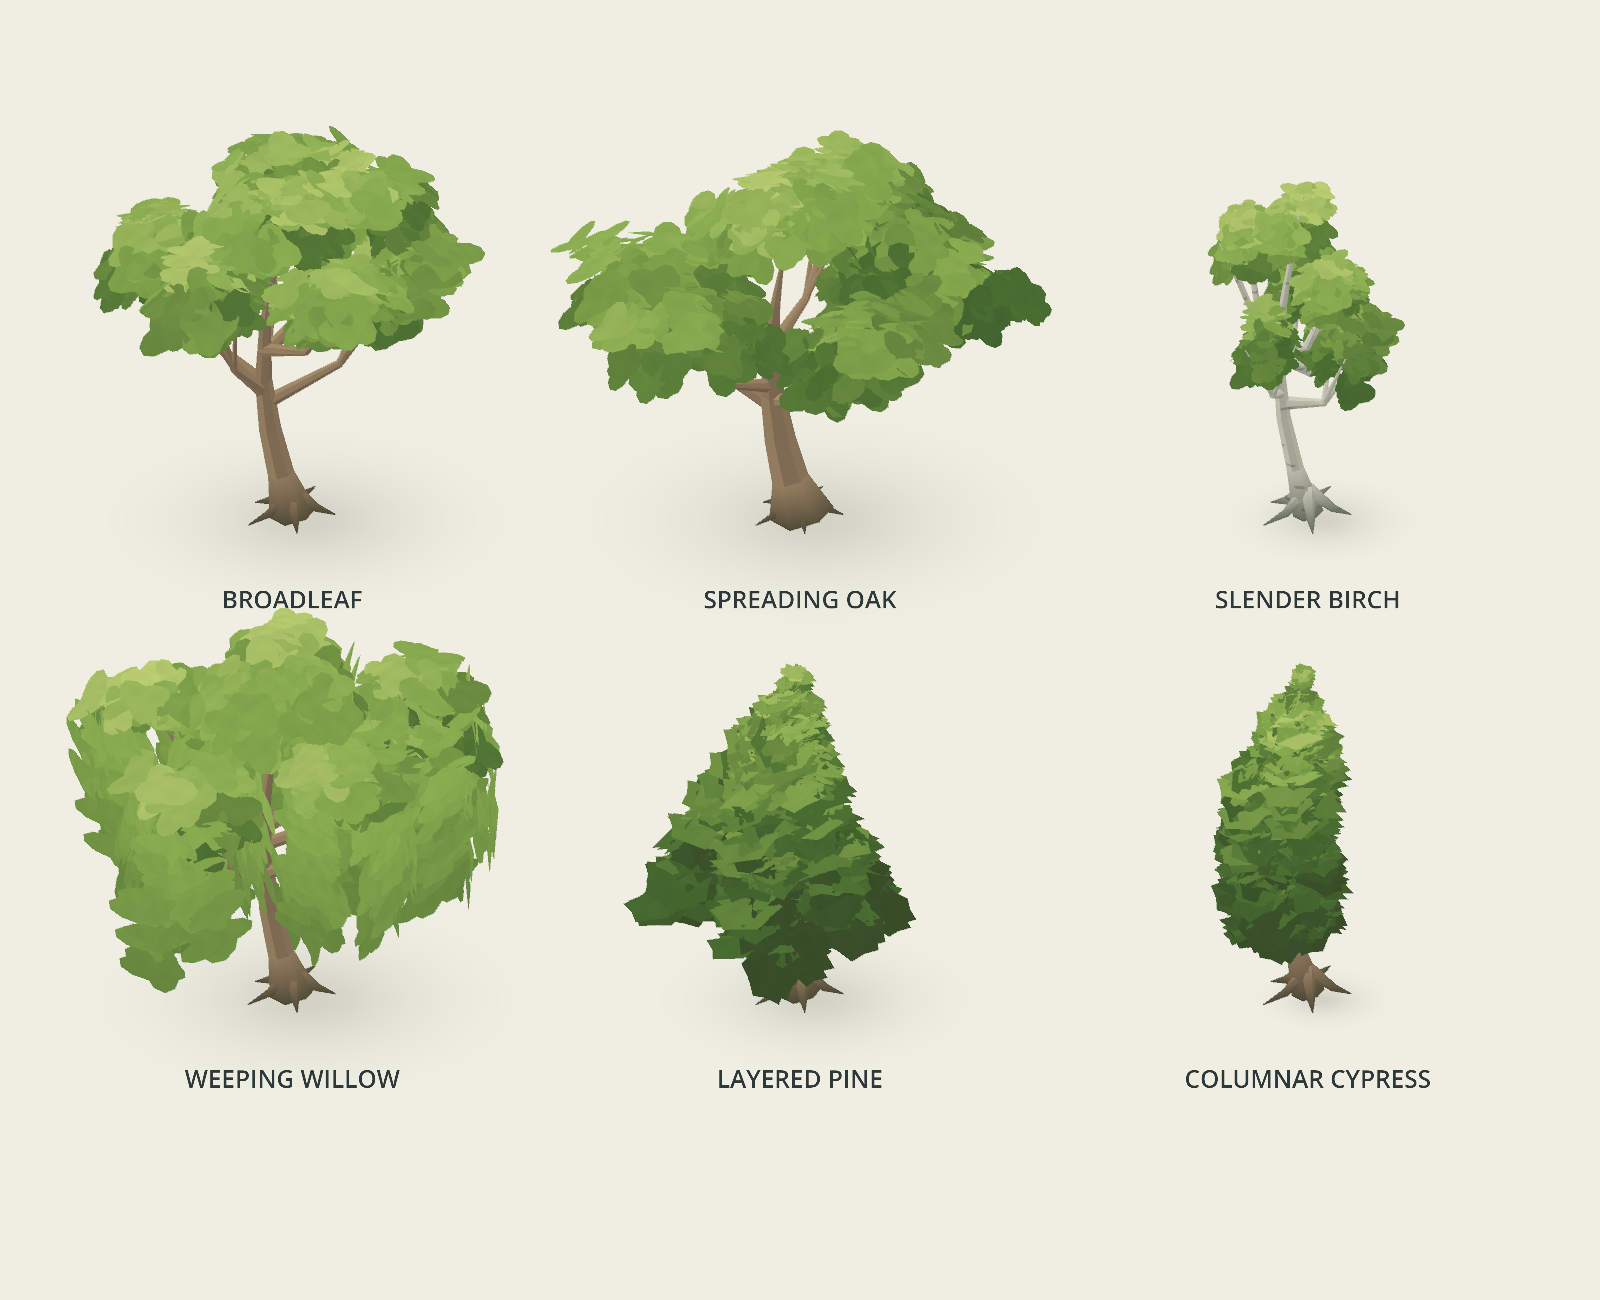
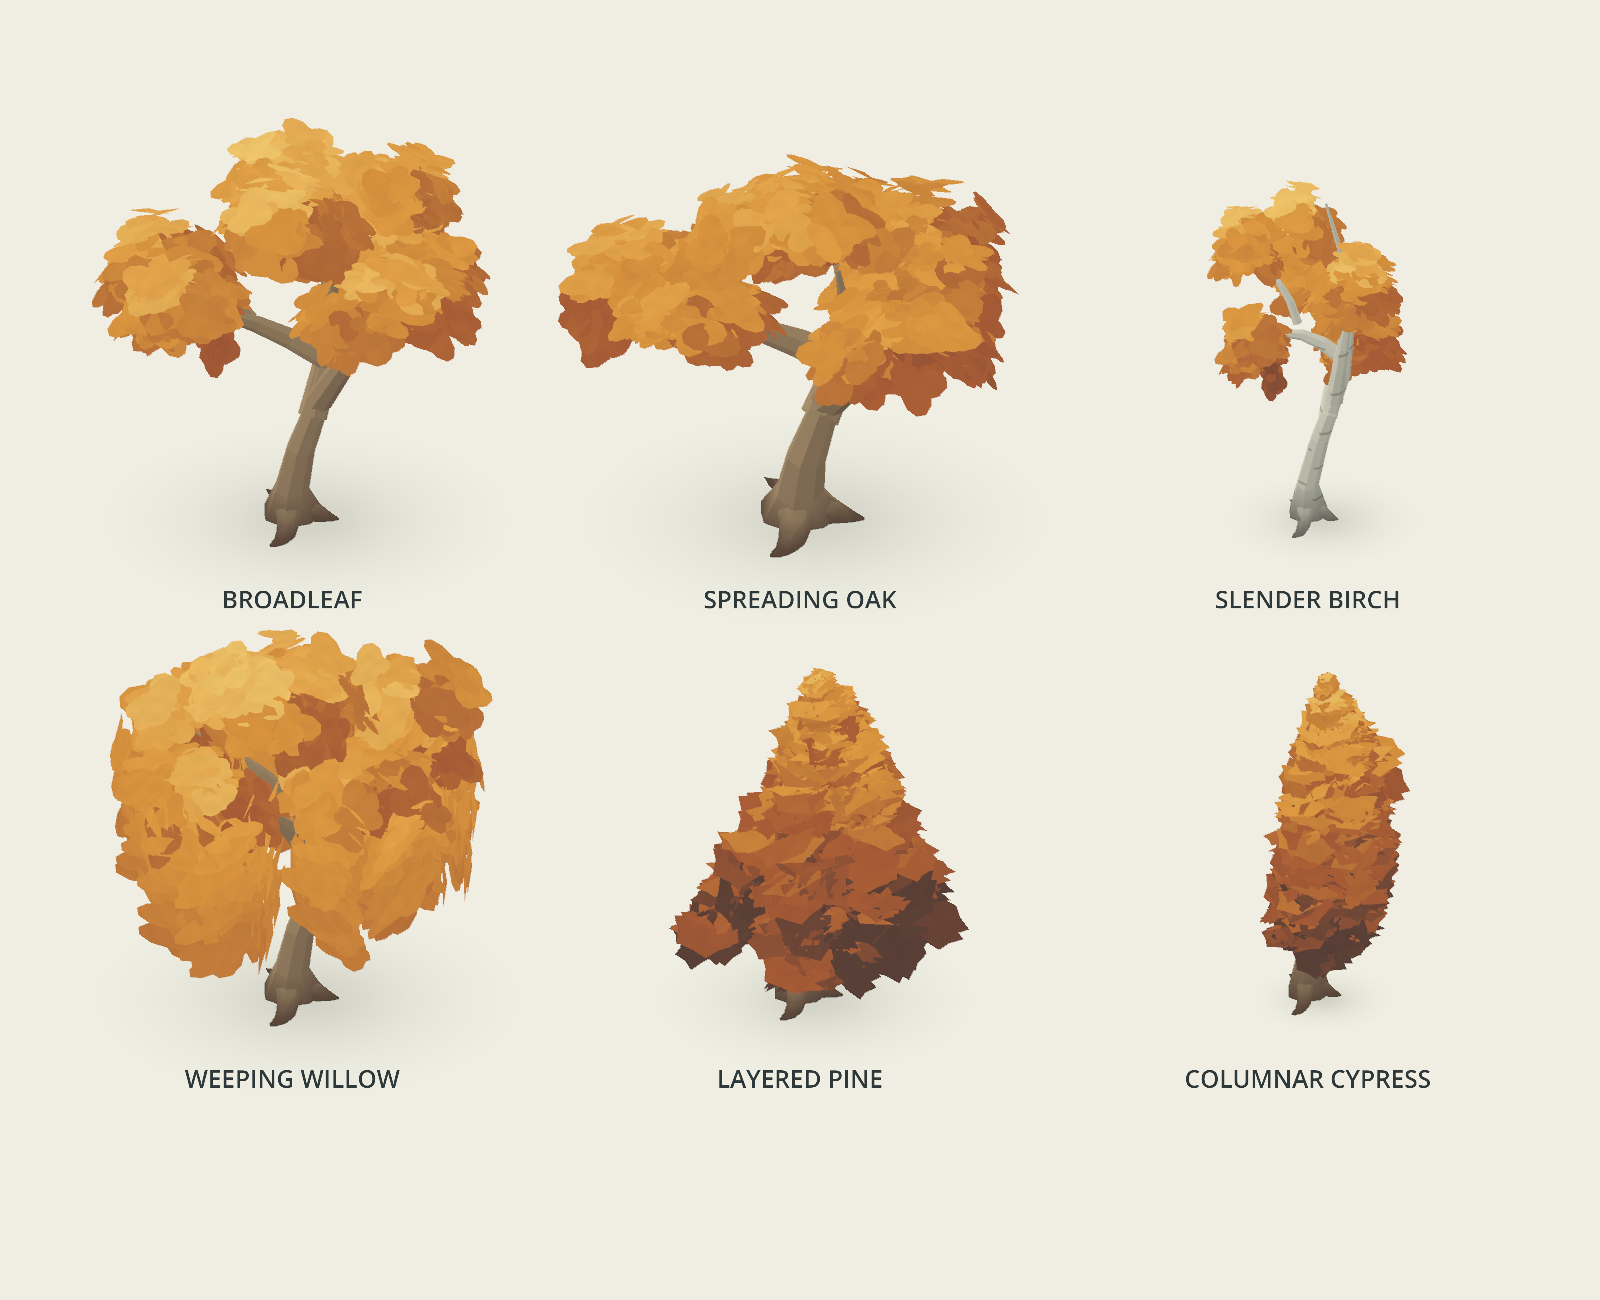
tree updates to trunk

diff --git a/components/foliage/TREES.md b/components/foliage/TREES.md
@@ -29,7 +29,7 @@ Types apply proportion multipliers to your authored dimensions, rather than repl
 | Tree Height / Crown Width | Overall proportions, in meters. |
 | Trunk Radius | Stem thickness and root-flare size. |
 | Trunk Bend | Seeded curve strength as a fraction of tree height; default 0.075. Roots stay fixed. |
-| Branch Count | 4–10 main deciduous limbs or pine levels. Cypress uses twice as many levels, dividing the same foliage budget between them. |
+| Branch Count | 4–10 deciduous canopy groups or pine levels. Deciduous groups share three unequal main limbs and a few thicker forks. Cypress uses twice as many levels, dividing the same foliage budget between them. |
 | Leaf Sprays per Cluster | 0–240; default 120. Total sprays are `(Branch Count + 1) × density`, distributed by growth form. Zero removes foliage completely. |
 | Bark Shadow / Bark Light | Warm wood palette, separate from foliage colors. |
 | Wind Strength / Speed | World-space canopy sway plus phase-varied leaf flutter; default strength 0.09 m. Zero strength produces a still tree. |
@@ -43,7 +43,7 @@ Rotate around Y and translate freely. Use the height and width fields to author 
 
 The canopy is made entirely from curved leaf sprays distributed throughout branch-tip volumes. There is no underlying sphere mesh and no separate layer of leaf decorations. Each spray has three bent oval leaves with raised centers. Ten smaller growth clumps organize each branch-tip mass, giving neighboring leaves connected regions of light and shadow. Small shared world-space pigment variations break up the color without revealing triangle boundaries.
 
-Staggered crown heights, a thinner trunk, and secondary forks produce a readable tree structure and small gaps. Leaf forms break the silhouette into uneven brush-like edges. Ground pigment at the root flare and a feathered ground shadow connect the tree to the meadow. The palette and wind retain the grass's visual language. The existing grass component is unchanged. The trunk follows a seeded curve, with branch starts evaluated along that curve. A separate random stream keeps trunk curvature edits from reshuffling canopy foliage. Wind displacement is converted from world space into each scaled leaf instance, so small sprays retain visible movement. Gentle gusts move the canopy together while individual leaves flutter at varied phases. The trunk remains steady.
+Staggered crown heights and three unequal curved leaders produce a readable tree structure and small gaps. Several canopy groups share each leader rather than sprouting separate thin twigs from the trunk. Main limbs and forks use six-point curved paths, gradual taper, and uneven oval cross-sections. Evergreens retain a stronger central stem with fewer visible, thicker boughs. Leaf forms break the silhouette into uneven brush-like edges. Ground pigment at the root flare and a feathered ground shadow connect the tree to the meadow. The palette and wind retain the grass's visual language. The existing grass component is unchanged. The trunk follows a seeded curve, with branch starts evaluated along that curve. A separate random stream keeps trunk curvature edits from reshuffling canopy foliage. Wind displacement is converted from world space into each scaled leaf instance, so small sprays retain visible movement. Gentle gusts move the canopy together while individual leaves flutter at varied phases. The trunk remains steady.
 
 The previous **Leaf Dabs per Cluster** surface-detail control has been replaced by **Leaf Sprays per Cluster**, which controls the density of the entire canopy. Custom scenes that used the old property should use the new field.
 
@@ -51,7 +51,7 @@ Evergreens reuse the same volume placement and shader with a cached 24-triangle 
 
 ## Rendering budget
 
-The default deciduous tree has **25,928 triangles**, plus a two-triangle shadow plane, and **three geometry surfaces**: merged wood, one foliage MultiMesh, and shadow. A shared 30-triangle leaf-spray mesh is instanced 840 times at the default settings. At the same default density, pine has **21,056 triangles** and cypress has **21,728**, using the shared evergreen spray. All variants retain the same three geometry surfaces. The only transparent surface is the ground shadow; foliage is opaque, double-sided geometry with depth writes. There are no alpha cards, per-leaf nodes, shadow-map passes, or per-frame script updates or mesh uploads.
+The default deciduous tree has **25,914 triangles**, plus a two-triangle shadow plane, and **three geometry surfaces**: merged wood, one foliage MultiMesh, and shadow. A shared 30-triangle leaf-spray mesh is instanced 840 times at the default settings. At the same default density, pine has **20,874 triangles** and cypress has **20,874**, using the shared evergreen spray. All variants retain the same three geometry surfaces. The only transparent surface is the ground shadow; foliage is opaque, double-sided geometry with depth writes. There are no alpha cards, per-leaf nodes, shadow-map passes, or per-frame script updates or mesh uploads.
 
 This uses more geometry than the earlier sphere canopy to make leaves form the silhouette and volume. It also removes a separate canopy draw surface. The demo measured **13 total draw calls and about 63,900 primitives**, including grass, player, and world, on Godot 4.4.1's Metal Mobile renderer. These are rendering counts, not an iOS frame-rate guarantee. For many trees, start with 50–80 sprays per cluster and profile on the target phone. Each tree is culled as one component; forest-wide batching and distance LOD are not implemented.
 
@@ -76,3 +76,7 @@ The wind rendering check isolates the tree and compares frames with strength zer
 Each component exposes **Foliage Colors → Palette Preset** in the Inspector. Choose seasonal or dreamlike colors, or edit a custom four-color mix. Palette changes preserve geometry and the painterly color distribution. See [the palette guide](PALETTES.md).
 
 The variant check covers all six growth forms, deterministic rebuilding, shared meshes, geometry bounds, palette independence, type/palette scene persistence, birch markings, wind parameters, odd cypress density, and zero-density evergreen foliage. `docs/tree-variants.png` compares the types in an actual Godot render.
+
+Wood generation has an independent seed stream. Trunk and limb refinements preserve the approved canopy transform/color buffers for every type. Lower-stem collision capsules follow the revised trunk curve.
+
+Three thick, curved buttress roots replace the five small root spikes. Their taper sinks below the ground surface, and their proportions follow each tree type’s trunk thickness. They use the same painted bark and uneven cross-sections as the limbs, with an independent random stream to preserve canopy placement.

diff --git a/README.md b/README.md
@@ -1,6 +1,6 @@
 # memories
 
-A shared relationship timeline told through small, dreamlike 3D memories. The first demo memory is a small painterly meadow with a procedural tree and bushes in a white dreamscape.
+A shared relationship timeline told through small, dreamlike 3D memories. The first demo memory is a painterly forest clearing with nine procedural trees, grass, bushes, and boulders in a white dreamscape.
 
 ## Play
 
@@ -68,3 +68,5 @@ For a rendered movement timing check, run `godot --path . --script tests/movemen
 `docs/tree-demo.png` shows the current meadow and tree demo.
 
 `docs/bush-demo.png` shows the current meadow with a tree and three reusable bushes.
+
+`docs/forest-clearing-overview.png` shows the current clearing: an irregular horseshoe of autumn broadleaf, oak, and birch trees, with taller crowns at the back and an open entrance facing the player. Tree seeds, rotations, proportions, and density are authored on individual instances in `scenes/memories/foliage_demo.tscn`. The expanded meadow uses shorter grass and reduced per-area density to connect the tree bases.

diff --git a/components/foliage/README.md b/components/foliage/README.md
@@ -49,3 +49,5 @@ The grass check covers repeatable generation, seed variation, the geometry budge
 ## Palette selector
 
 Each component exposes **Foliage Colors → Palette Preset** in the Inspector. Choose seasonal or dreamlike colors, or edit a custom four-color mix. Palette changes preserve geometry and the painterly color distribution. See [the palette guide](PALETTES.md).
+
+Ground pigment for grass and bushes uses the palette’s shade/leaf mid-tones, with a small root tint and painted highlights. This keeps the transparent wash colorful over the cream dream surface instead of resembling a dark contact shadow. For accurate color preview, open the full `memory_world.tscn`; the standalone memory has no ground surface, so its wash blends against the editor background.
